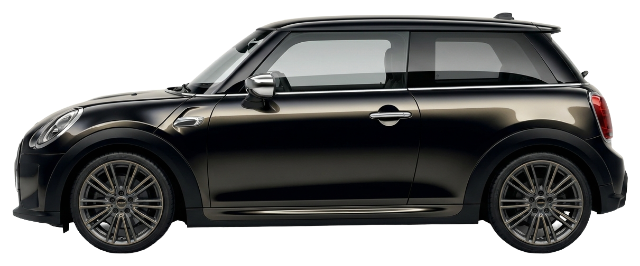
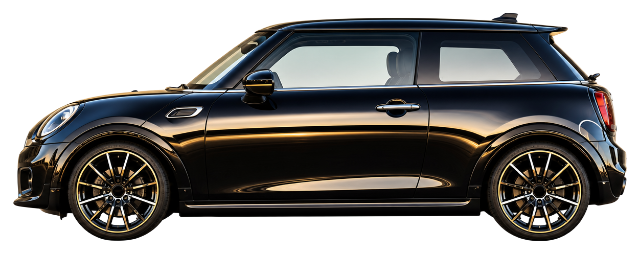
Complete the luxury car photo set — all four categories now use real renders
Selected the four left-facing side-profile renders from the uploaded set
(matching series: obsidian black + champagne gold, transparent backgrounds),
cropped to content and resized to 640px (~200-260KB each):
- lille: Mini-class hatchback
- mellem: executive S-Class-style sedan
- stor: Range Rover-style SUV
- varebil: V-Class-style executive van

Replaces the two interim renders so the whole row comes from one consistent
series. The remaining uploaded angle variants were removed from the repo.
Verified on desktop cards, booking wizard and mobile (390px) — consistent,
no layout issues, SVG fallback intact.

diff --git a/public/cars/README.md b/public/cars/README.md
@@ -1,6 +1,6 @@
 # Bilbilleder til pris-/valglisten
 
-Læg fire PNG-filer med **gennemsigtig baggrund** her, så erstatter de automatisk
+De fire PNG-filer nedenfor er AKTIVE på sitet. Udskift en fil (samme navn) for at opdatere bilen — SVG-tegningen bruges automatisk som fallback, hvis en fil mangler.
 de tegnede SVG-biler i pris-/bookinglisten. Mangler en fil, vises SVG-tegningen
 som fallback (siden går aldrig i stykker).
 
